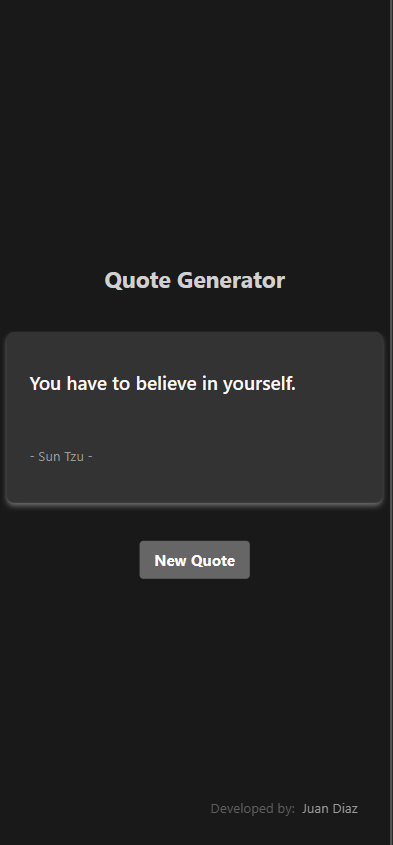
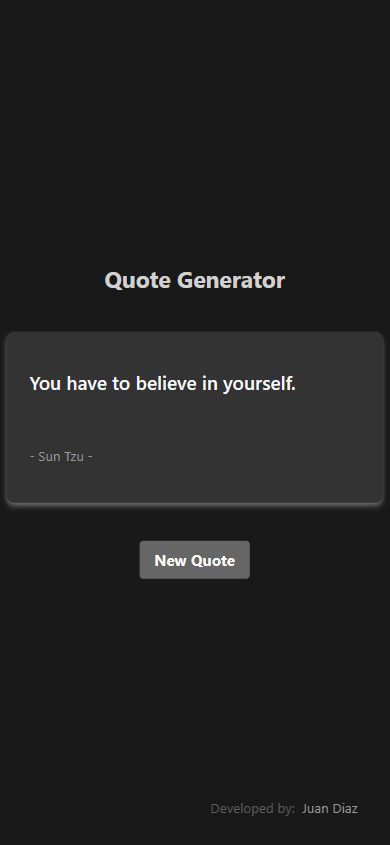
Update mobile view image

diff --git a/README.md b/README.md
@@ -25,7 +25,7 @@ A Quote generator React app that consumes the [Quotable API](https://github.com/
 
 ### Mobile view📱
 
-<img src="./src/assets/image/ipad.png" width="250" />
+<img src="./src/assets/images/mobile.png" width="250" />
 
 ## Features:
 
